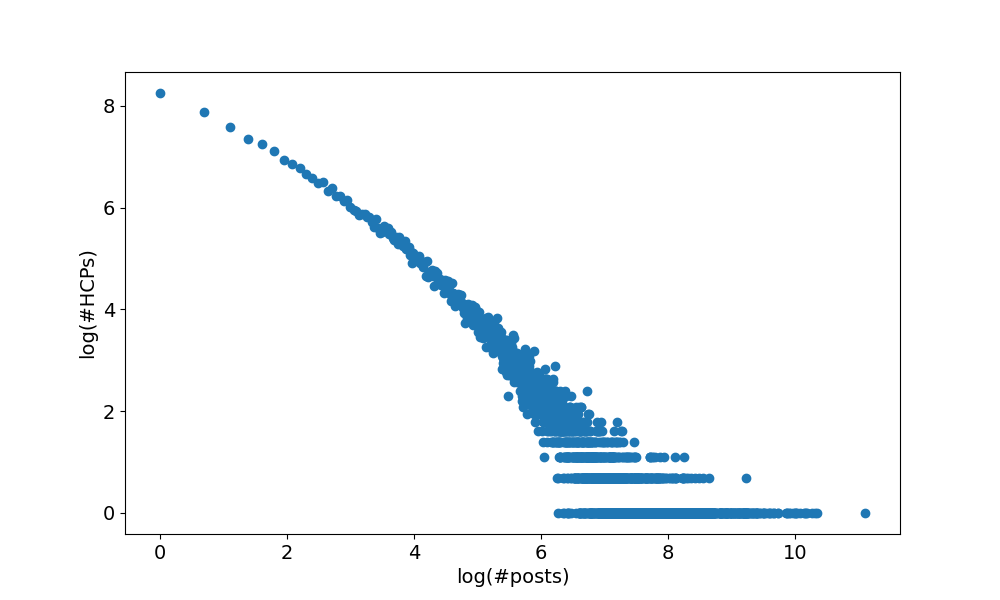
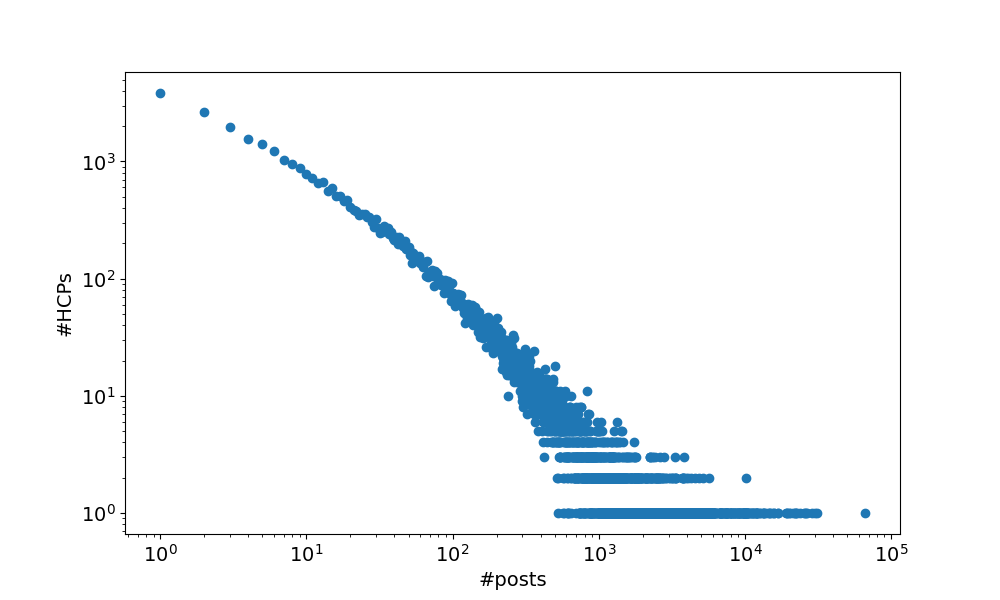
Update users per #posts code and figure

diff --git a/code/hpc_code/get_author_tweet_count.py b/code/hpc_code/get_author_tweet_count.py
@@ -18,7 +18,9 @@ mpl.rcParams['font.size'] = 14
 
 plt.subplots(figsize=(10, 6))
 #plt.title('Logarithm of author count per number of posts')
-plt.xlabel('log(#posts)')
-plt.ylabel('log(#HCPs)')
-plt.scatter([math.log(num_tweets) for (num_tweets, _) in count_count_dict.items()], [math.log(count) for (_, count) in count_count_dict.items()])
+plt.xlabel('#posts')
+plt.ylabel('#HCPs')
+plt.yscale("log")
+plt.xscale("log")
+plt.scatter([num_tweets for (num_tweets, _) in count_count_dict.items()], [count for (_, count) in count_count_dict.items()])
 plt.savefig('log_author_count_per_log_number_of_posts.png')
